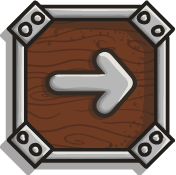
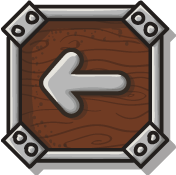
a prettier app bar

diff --git a/lib/AdTreesAppTopBar.dart b/lib/AdTreesAppTopBar.dart
@@ -9,23 +9,70 @@ class AdTreesAppTopBar {
   AdTreesAppTopBar(String text,BuildContext context, {bool isGuide}) {
     this.text.replaceAll('AdTrees', text);
 
-    Widget settingsButton = IconButton(
-      icon: Icon(Icons.help_outline),
+    Widget settingsButton = Container(
+                margin: new EdgeInsets.only(bottom: 10.0, right: 30.0),
+                child: IconButton(
+      icon: Icon(Icons.help_outline, color: Colors.blueGrey[100], size: 40.0),
       onPressed: () { if(isGuide == null){
         Navigator.push(
           context,
           MaterialPageRoute(builder: (context) => Guide()),
         );}
       },
+    ),
     );
 
-    Widget backButton = IconButton(
+    Widget backButton = GestureDetector(
+              onTap: (){Navigator.pop(context);
+              },
+              child:Container(
+                margin: new EdgeInsets.only(bottom: 10.0, left: 10.0),
+                //alignment: Alignment.topRight,
+                height: MediaQuery.of(context).size.height,
+                width: MediaQuery.of(context).size.height,
+                decoration: BoxDecoration(
+                  image: new DecorationImage(
+                    image: new AssetImage("assets/images/left.png"), 
+                    fit: BoxFit.fill,
+                  ),
+                ),
+              ),),
+              /*IconButton(
         icon: Icon(Icons.arrow_back),
         onPressed: () => Navigator.pop(context),
-      ),
+      ),*/
       bar = new AppBar(
-      title: Center(child:Row(children: <Widget>[Text(text +" | You have "+ Wallet().getCoins().toString()),Icon(Icons.strikethrough_s),],) ),
-      backgroundColor: Colors.green,
+      title: Center(
+        child:Row(
+          mainAxisAlignment: MainAxisAlignment.spaceBetween,
+          children: <Widget>[
+            Text(text,
+            style: TextStyle(
+                        fontWeight: FontWeight.bold,
+                        fontSize: 20,
+                        color: Colors.blueGrey[100],
+                      ),
+            ),
+            Row( 
+                  children: <Widget>[
+                    Text(
+                      Wallet().getCoins().toString(),
+                      maxLines: 1,
+                      softWrap: true,
+                      textAlign: TextAlign.center,
+                      style: TextStyle(
+                        fontWeight: FontWeight.bold,
+                        fontSize: 20,
+                        color: Colors.yellow,
+                      ),
+                    ),
+                    Icon(Icons.strikethrough_s, color: Colors.yellow, size: 25.0),
+                  ]
+                ),
+          ],
+        ), 
+      ),
+      backgroundColor: Colors.transparent,
       leading: Navigator.canPop(context) ? backButton : null,
       actions: <Widget>[ settingsButton],
     );

diff --git a/lib/ItemList.dart b/lib/ItemList.dart
@@ -32,17 +32,27 @@ class _ItemListState extends State<ItemList>{
 
   @override
   Widget build(BuildContext context) {
-    return MaterialApp(title: "World map", home: Scaffold(
-      appBar: AdTreesAppTopBar(makeTitle(), context).getBar(),
-      body: /*Column(
-        mainAxisAlignment: MainAxisAlignment.start,
-        crossAxisAlignment: CrossAxisAlignment.start,
-        mainAxisSize: MainAxisSize.min,
-        children: <Widget>[*/
-          _displayItems(),
-          //]),
+    return MaterialApp(title: "World map", 
+    home: Stack(
+      children: <Widget>[
+        new Container(
+          height: MediaQuery.of(context).size.height/8.5,
+          width: double.infinity,
+          decoration:new BoxDecoration(
+            image: new DecorationImage(
+              image: new AssetImage("assets/images/table.png"),
+              fit: BoxFit.fill,
+            ),
+          ),
+        ),
+        Scaffold(
+          backgroundColor: Colors.transparent,
+          appBar:  AdTreesAppTopBar(makeTitle(), context).getBar(),
+          body: _displayItems(), 
+        ),
+      ],
     ),
-    );
+    ) ;
   }
 
   String makeTitle(){

diff --git a/lib/Planet.dart b/lib/Planet.dart
@@ -23,11 +23,27 @@ class _PlanetState extends State<Planet>{
 
   @override
   Widget build(BuildContext context){
-    return MaterialApp(title: "World map", home: Scaffold(
-      appBar: AdTreesAppTopBar('World map', context).getBar(),
-      body: _buildGameBody(),
+    return MaterialApp(title: "World map", 
+    home: Stack(
+      children: <Widget>[
+        new Container(
+          height: MediaQuery.of(context).size.height/8.5,
+          width: double.infinity,
+          decoration:new BoxDecoration(
+            image: new DecorationImage(
+              image: new AssetImage("assets/images/table.png"),
+              fit: BoxFit.fill,
+            ),
+          ),
+        ),
+        Scaffold(
+          backgroundColor: Colors.transparent,
+          appBar:  AdTreesAppTopBar('World map', context).getBar(),
+          body: _buildGameBody(),
+        ),
+      ],
     ),
-    );
+    ) ;
   }
   void _tapOnGrid(int x, int y){
     setState(() {

diff --git a/lib/main.dart b/lib/main.dart
@@ -33,7 +33,20 @@ class _AdTreesAppBody extends StatefulWidget {
 class __AdTreesAppBodyState extends State<_AdTreesAppBody> {
   
   Widget build(BuildContext context) {
-    return Scaffold(
+    return Stack(
+      children: <Widget>[
+        new Container(
+          height: MediaQuery.of(context).size.height/8.5,
+          width: double.infinity,
+          decoration:new BoxDecoration(
+            image: new DecorationImage(
+              image: new AssetImage("assets/images/table.png"),
+              fit: BoxFit.fill,
+            ),
+          ),
+        ),
+        Scaffold(
+          backgroundColor: Colors.transparent,
       appBar: AdTreesAppTopBar("AdTrees!", context).getBar(),
       body: Container(
         decoration: BoxDecoration(
@@ -104,6 +117,8 @@ class __AdTreesAppBodyState extends State<_AdTreesAppBody> {
           ],
         ),
       ),
+        ),
+      ],
     );
   }
 }

diff --git a/lib/TreeScreen.dart b/lib/TreeScreen.dart
@@ -28,7 +28,20 @@ class TreeScreenBodyState extends State<TreeScreen> {
   }
   Widget build(BuildContext context) {
     AppBar bar = AdTreesAppTopBar(treeInfo.name, context).getBar();
-    return Scaffold(
+    return Stack(
+      children: <Widget>[
+        new Container(
+          height: MediaQuery.of(context).size.height/8.5,
+          width: double.infinity,
+          decoration:new BoxDecoration(
+            image: new DecorationImage(
+              image: new AssetImage("assets/images/table.png"),
+              fit: BoxFit.fill,
+            ),
+          ),
+        ),
+        Scaffold(
+          backgroundColor: Colors.transparent,
       appBar: bar,
       body: Container(
         decoration: treeInfo.getBackground(),
@@ -61,6 +74,8 @@ class TreeScreenBodyState extends State<TreeScreen> {
           ],
         ),
       ),
+        ),
+      ],
     );
   }
 

diff --git a/lib/Guide.dart b/lib/Guide.dart
@@ -113,7 +113,7 @@ int pageNumber = 0;
                 height: height/10,
                 decoration: BoxDecoration(
                   image: new DecorationImage(
-                    image: new AssetImage("assets/images/left.png"), 
+                    image: new AssetImage("assets/images/right.png"), 
                     fit: BoxFit.fill,
                   ),
                 ),
